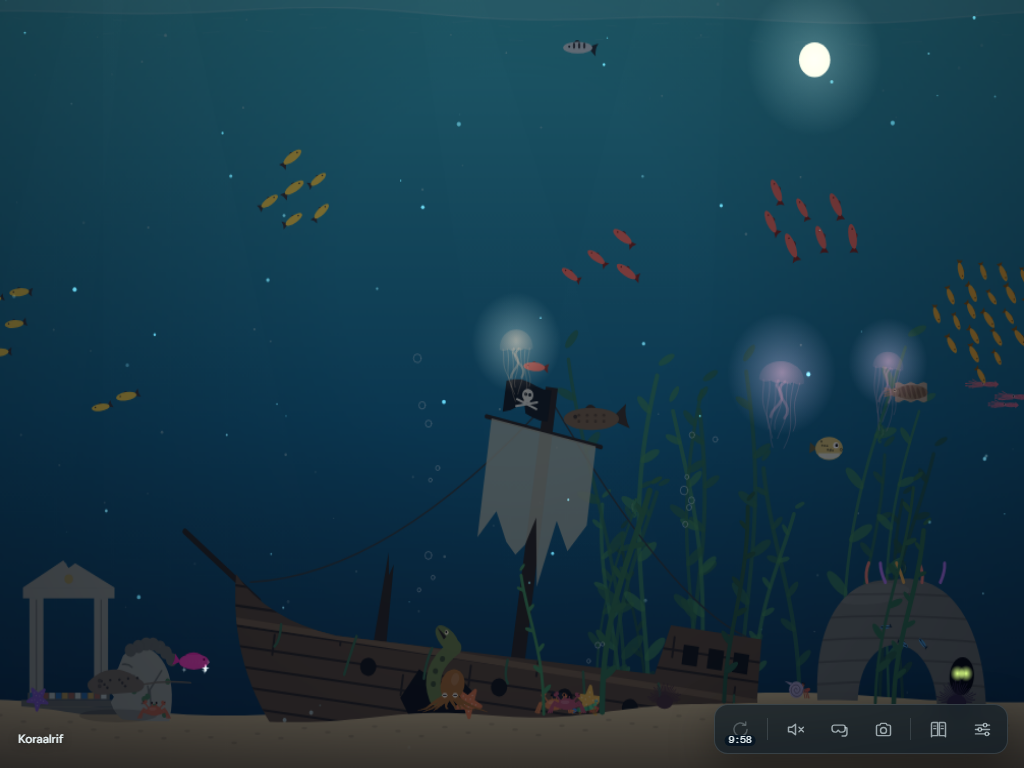
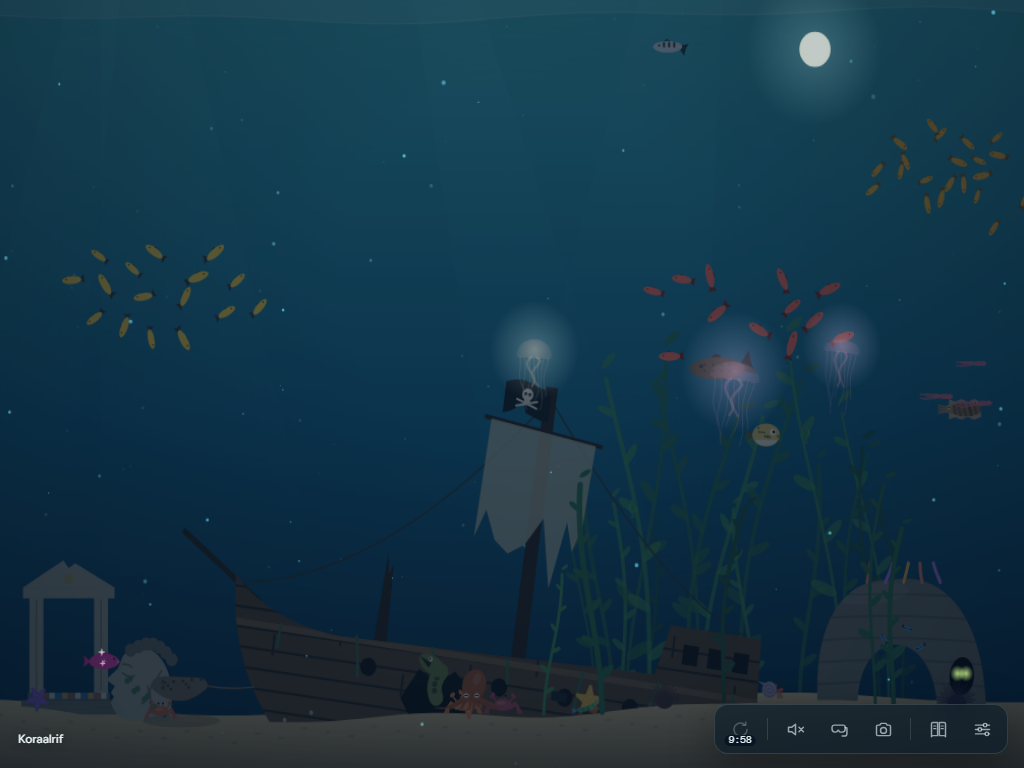
Vondst-foto met flits in donker water; herstel als de browser het tekenvlak kwijtraakt

diff --git a/index.html b/index.html
@@ -7740,6 +7740,10 @@
 
   taskEl.addEventListener("click", explainTask);
 
+  // If the browser takes the drawing surface away (it can, when memory is short), clear the saved layers so everything is drawn fresh.
+  canvas.addEventListener("contextlost", e => { e.preventDefault(); discoverPause = false; });
+  canvas.addEventListener("contextrestored", () => { if (scene) scene.layers = {}; shinyBufs.clear(); thumbCache.clear(); });
+
   // ---- a snapshot when a new animal is found -------------------------------
   // The moment a new animal comes into the light, a picture is taken of the diver and the animal together.
   // It moves to the middle of the screen, turns into the logbook picture and flies into the book.
@@ -7766,7 +7770,27 @@
     const x0 = Math.max(0, Math.min(W - w, cx - w / 2)), y0 = Math.max(0, Math.min(H - h, cy - h / 2));
     const shot = document.createElement("canvas");
     shot.width = 480; shot.height = 336;
-    try { shot.getContext("2d").drawImage(canvas, x0 * dpr, y0 * dpr, w * dpr, h * dpr, 0, 0, 480, 336); dcShot.src = shot.toDataURL("image/jpeg", 0.85); } catch (e) { return; }
+    try {
+      const sc = shot.getContext("2d");
+      sc.fillStyle = water.bottom; sc.fillRect(0, 0, 480, 336);
+      sc.drawImage(canvas, x0 * dpr, y0 * dpr, w * dpr, h * dpr, 0, 0, 480, 336);
+      // how bright is the picture? dark water gets a camera flash, an empty picture is skipped
+      const px = sc.getImageData(0, 0, 480, 336).data;
+      let sum = 0, n = 0;
+      for (let i = 0; i < px.length; i += 4 * 37) { sum += px[i] * 0.3 + px[i + 1] * 0.59 + px[i + 2] * 0.11; n++; }
+      const mean = sum / n;
+      if (mean < 70 && mean > 3) {
+        const copy = document.createElement("canvas"); copy.width = 480; copy.height = 336; copy.getContext("2d").drawImage(shot, 0, 0);
+        if ("filter" in sc) { sc.filter = `brightness(${Math.min(2.8, 85 / mean).toFixed(2)}) saturate(1.15)`; sc.drawImage(copy, 0, 0); sc.filter = "none"; }
+        else { sc.globalCompositeOperation = "screen"; for (let k = 0; k < 2; k++) sc.drawImage(copy, 0, 0); sc.globalCompositeOperation = "source-over"; }
+      }
+      // the flash lights up the animal itself a little more
+      const fxp = (ax - x0) / w * 480, fyp = (ay - y0) / h * 336;
+      const fl = sc.createRadialGradient(fxp, fyp, 0, fxp, fyp, 170);
+      fl.addColorStop(0, "rgba(255,255,245,0.28)"); fl.addColorStop(1, "rgba(255,255,245,0)");
+      sc.globalCompositeOperation = "lighter"; sc.fillStyle = fl; sc.fillRect(0, 0, 480, 336); sc.globalCompositeOperation = "source-over";
+      dcShot.src = mean > 3 ? shot.toDataURL("image/jpeg", 0.88) : thumbURL(d.key, true, 3);
+    } catch (e) { return; }
     dcThumb.src = thumbURL(d.key, true, 3);
     dcName.textContent = nm(d.key);
     discoverBusy = true;
@@ -7787,7 +7811,7 @@
     sfxClick();
     const sw = w * 1.087, start = `translate(${x0 + w / 2 - (fx + tw / 2)}px, ${y0 + h / 2 - (fy + th / 2)}px) scale(${sw / tw})`;
     const ease = "cubic-bezier(0.22, 1, 0.36, 1)";
-    discoverEl.animate([{ background: "rgba(2,8,18,0)" }, { background: "rgba(2,8,18,0.45)" }], { duration: 500, fill: "forwards" });
+    discoverEl.animate([{ background: "rgba(2,8,18,0)" }, { background: "rgba(2,8,18,0.28)" }], { duration: 500, fill: "forwards" });
     dcFrame.animate([{ opacity: 0.35, offset: 0 }, { opacity: 1, offset: 0.25 }, { opacity: 1 }], { duration: 300 }); // a little flash
     await dcFrame.animate([
       { transform: start, backgroundColor: "rgba(244,239,226,0)", boxShadow: "0 0 0 rgba(0,0,0,0)" },
@@ -7804,7 +7828,7 @@
     discoverPause = false;
     const r = bookBtn.getBoundingClientRect();
     const bx = r.left + r.width / 2 - (fx + tw / 2), by = r.top + r.height / 2 - (fy + th / 2);
-    discoverEl.animate([{ background: "rgba(2,8,18,0.45)" }, { background: "rgba(2,8,18,0)" }], { duration: 500, fill: "forwards" });
+    discoverEl.animate([{ background: "rgba(2,8,18,0.28)" }, { background: "rgba(2,8,18,0)" }], { duration: 500, fill: "forwards" });
     dcName.animate([{ opacity: 1 }, { opacity: 0 }], { duration: 200, fill: "forwards" });
     await dcFrame.animate([
       { transform: "translate(0,0) scale(1) rotate(-2deg)", opacity: 1 },
@@ -8799,7 +8823,7 @@
       bar.append(text, btn);
       document.body.appendChild(bar);
     });
-    addEventListener("load", () => navigator.serviceWorker.register("sw.js?v=29").catch(() => {}));
+    addEventListener("load", () => navigator.serviceWorker.register("sw.js?v=30").catch(() => {}));
   }
 </script>
 </body>

diff --git a/src/13-controls.js b/src/13-controls.js
@@ -119,6 +119,10 @@
 
   taskEl.addEventListener("click", explainTask);
 
+  // If the browser takes the drawing surface away (it can, when memory is short), clear the saved layers so everything is drawn fresh.
+  canvas.addEventListener("contextlost", e => { e.preventDefault(); discoverPause = false; });
+  canvas.addEventListener("contextrestored", () => { if (scene) scene.layers = {}; shinyBufs.clear(); thumbCache.clear(); });
+
   // ---- a snapshot when a new animal is found -------------------------------
   // The moment a new animal comes into the light, a picture is taken of the diver and the animal together.
   // It moves to the middle of the screen, turns into the logbook picture and flies into the book.
@@ -145,7 +149,27 @@
     const x0 = Math.max(0, Math.min(W - w, cx - w / 2)), y0 = Math.max(0, Math.min(H - h, cy - h / 2));
     const shot = document.createElement("canvas");
     shot.width = 480; shot.height = 336;
-    try { shot.getContext("2d").drawImage(canvas, x0 * dpr, y0 * dpr, w * dpr, h * dpr, 0, 0, 480, 336); dcShot.src = shot.toDataURL("image/jpeg", 0.85); } catch (e) { return; }
+    try {
+      const sc = shot.getContext("2d");
+      sc.fillStyle = water.bottom; sc.fillRect(0, 0, 480, 336);
+      sc.drawImage(canvas, x0 * dpr, y0 * dpr, w * dpr, h * dpr, 0, 0, 480, 336);
+      // how bright is the picture? dark water gets a camera flash, an empty picture is skipped
+      const px = sc.getImageData(0, 0, 480, 336).data;
+      let sum = 0, n = 0;
+      for (let i = 0; i < px.length; i += 4 * 37) { sum += px[i] * 0.3 + px[i + 1] * 0.59 + px[i + 2] * 0.11; n++; }
+      const mean = sum / n;
+      if (mean < 70 && mean > 3) {
+        const copy = document.createElement("canvas"); copy.width = 480; copy.height = 336; copy.getContext("2d").drawImage(shot, 0, 0);
+        if ("filter" in sc) { sc.filter = `brightness(${Math.min(2.8, 85 / mean).toFixed(2)}) saturate(1.15)`; sc.drawImage(copy, 0, 0); sc.filter = "none"; }
+        else { sc.globalCompositeOperation = "screen"; for (let k = 0; k < 2; k++) sc.drawImage(copy, 0, 0); sc.globalCompositeOperation = "source-over"; }
+      }
+      // the flash lights up the animal itself a little more
+      const fxp = (ax - x0) / w * 480, fyp = (ay - y0) / h * 336;
+      const fl = sc.createRadialGradient(fxp, fyp, 0, fxp, fyp, 170);
+      fl.addColorStop(0, "rgba(255,255,245,0.28)"); fl.addColorStop(1, "rgba(255,255,245,0)");
+      sc.globalCompositeOperation = "lighter"; sc.fillStyle = fl; sc.fillRect(0, 0, 480, 336); sc.globalCompositeOperation = "source-over";
+      dcShot.src = mean > 3 ? shot.toDataURL("image/jpeg", 0.88) : thumbURL(d.key, true, 3);
+    } catch (e) { return; }
     dcThumb.src = thumbURL(d.key, true, 3);
     dcName.textContent = nm(d.key);
     discoverBusy = true;
@@ -166,7 +190,7 @@
     sfxClick();
     const sw = w * 1.087, start = `translate(${x0 + w / 2 - (fx + tw / 2)}px, ${y0 + h / 2 - (fy + th / 2)}px) scale(${sw / tw})`;
     const ease = "cubic-bezier(0.22, 1, 0.36, 1)";
-    discoverEl.animate([{ background: "rgba(2,8,18,0)" }, { background: "rgba(2,8,18,0.45)" }], { duration: 500, fill: "forwards" });
+    discoverEl.animate([{ background: "rgba(2,8,18,0)" }, { background: "rgba(2,8,18,0.28)" }], { duration: 500, fill: "forwards" });
     dcFrame.animate([{ opacity: 0.35, offset: 0 }, { opacity: 1, offset: 0.25 }, { opacity: 1 }], { duration: 300 }); // a little flash
     await dcFrame.animate([
       { transform: start, backgroundColor: "rgba(244,239,226,0)", boxShadow: "0 0 0 rgba(0,0,0,0)" },
@@ -183,7 +207,7 @@
     discoverPause = false;
     const r = bookBtn.getBoundingClientRect();
     const bx = r.left + r.width / 2 - (fx + tw / 2), by = r.top + r.height / 2 - (fy + th / 2);
-    discoverEl.animate([{ background: "rgba(2,8,18,0.45)" }, { background: "rgba(2,8,18,0)" }], { duration: 500, fill: "forwards" });
+    discoverEl.animate([{ background: "rgba(2,8,18,0.28)" }, { background: "rgba(2,8,18,0)" }], { duration: 500, fill: "forwards" });
     dcName.animate([{ opacity: 1 }, { opacity: 0 }], { duration: 200, fill: "forwards" });
     await dcFrame.animate([
       { transform: "translate(0,0) scale(1) rotate(-2deg)", opacity: 1 },

diff --git a/sw.js b/sw.js
@@ -1,5 +1,5 @@
 // Service worker: maakt de oceaan installeerbaar en speelbaar zonder internet.
-const VERSION = "v29";
+const VERSION = "v30";
 const SHELL = `oceaan-shell-${VERSION}`;
 const FONTS = "oceaan-fonts-1";
 const SHELL_FILES = ["./", "index.html", "manifest.webmanifest", "icons/icon-192.png", "icons/icon-512.png", "icons/apple-touch-icon.png"];
